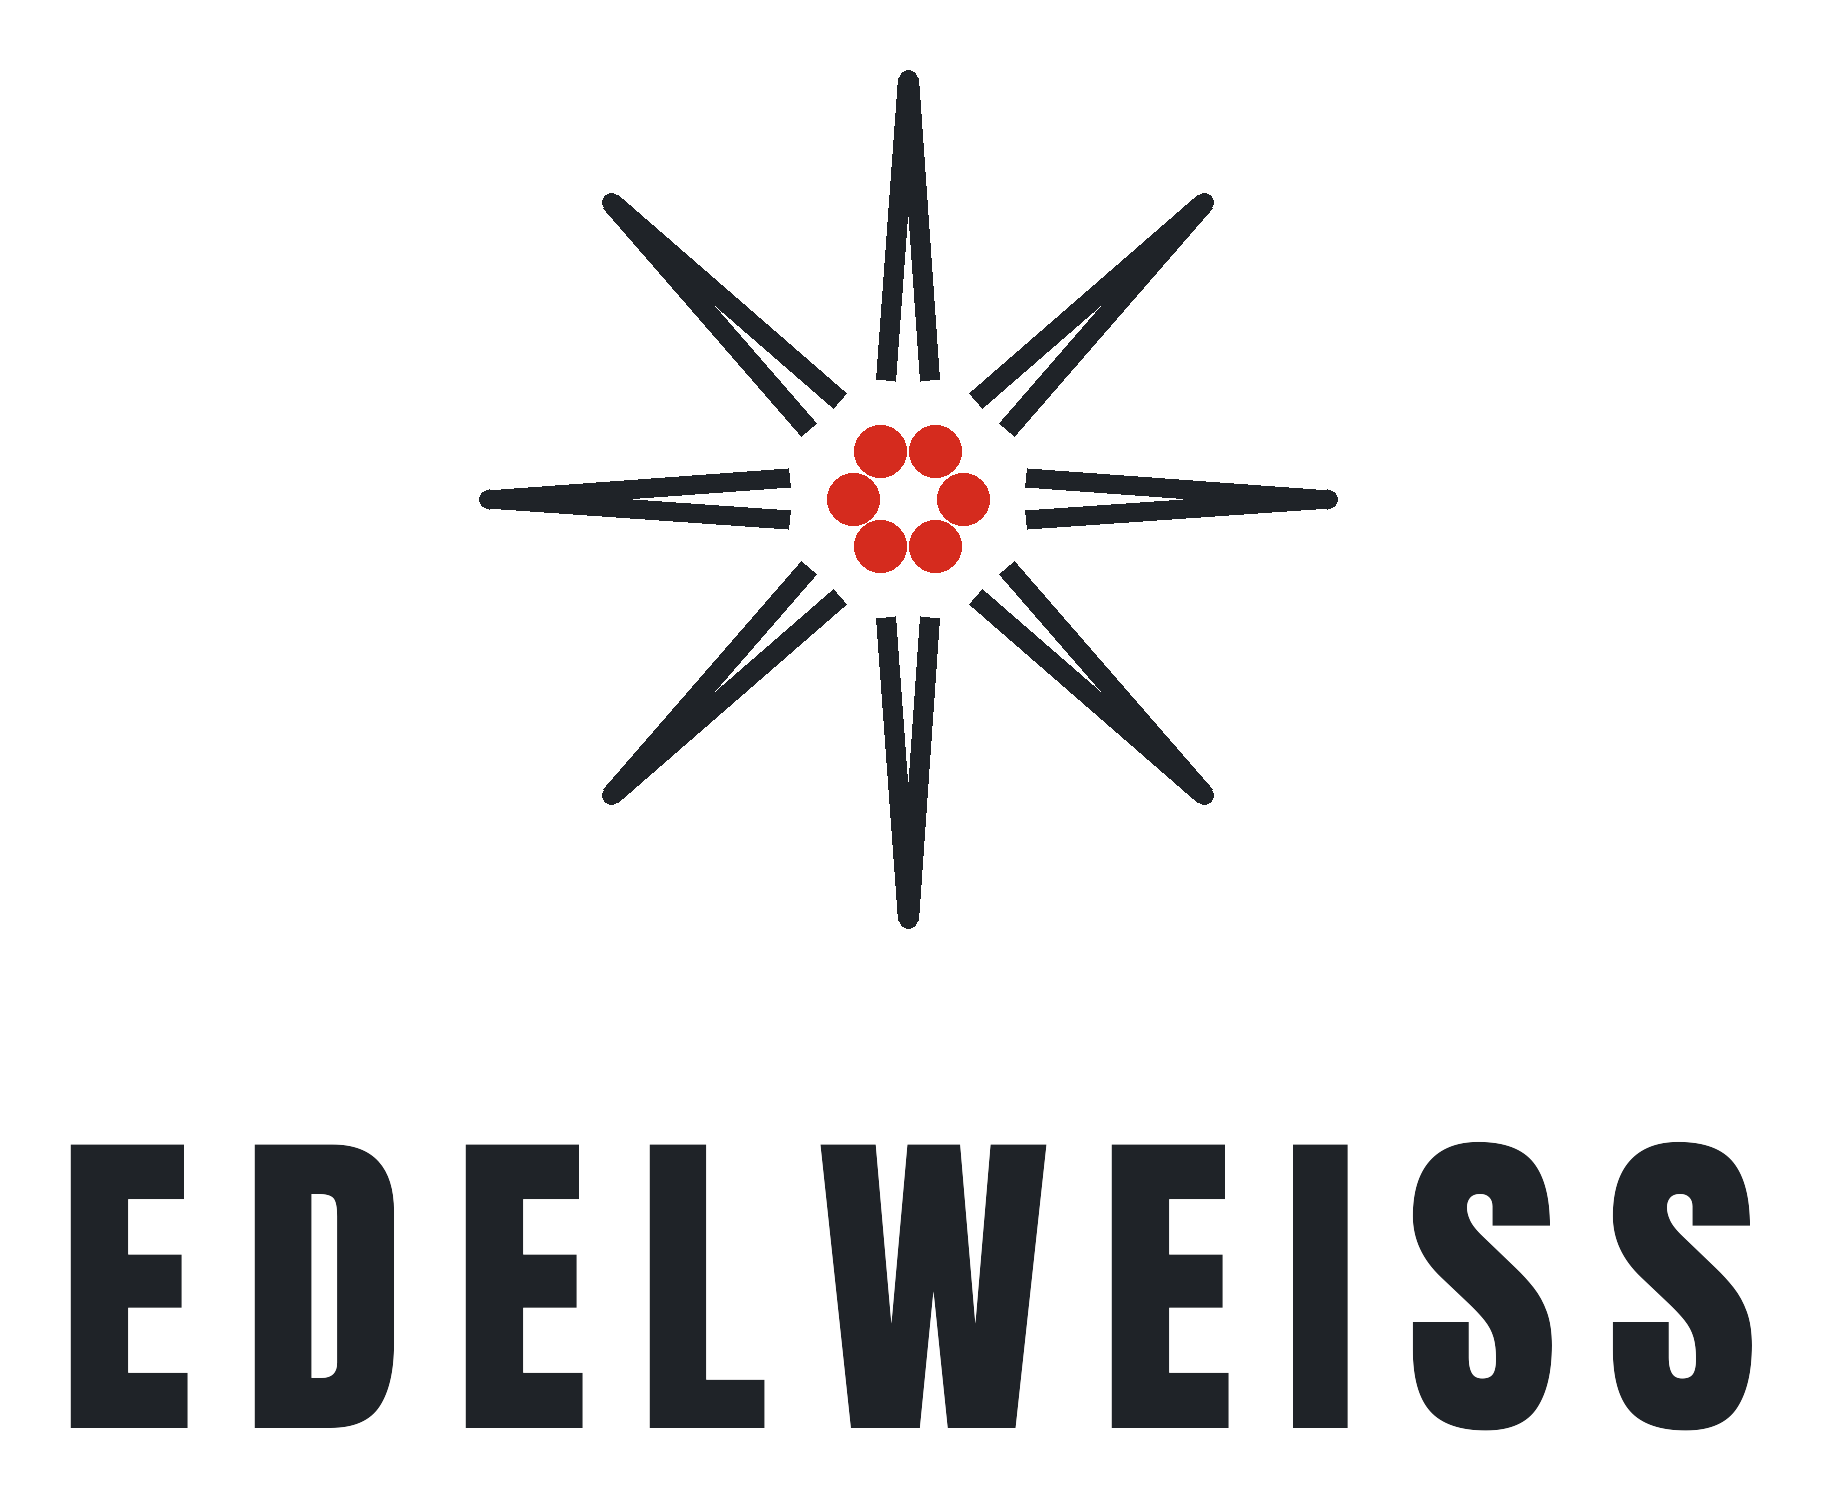
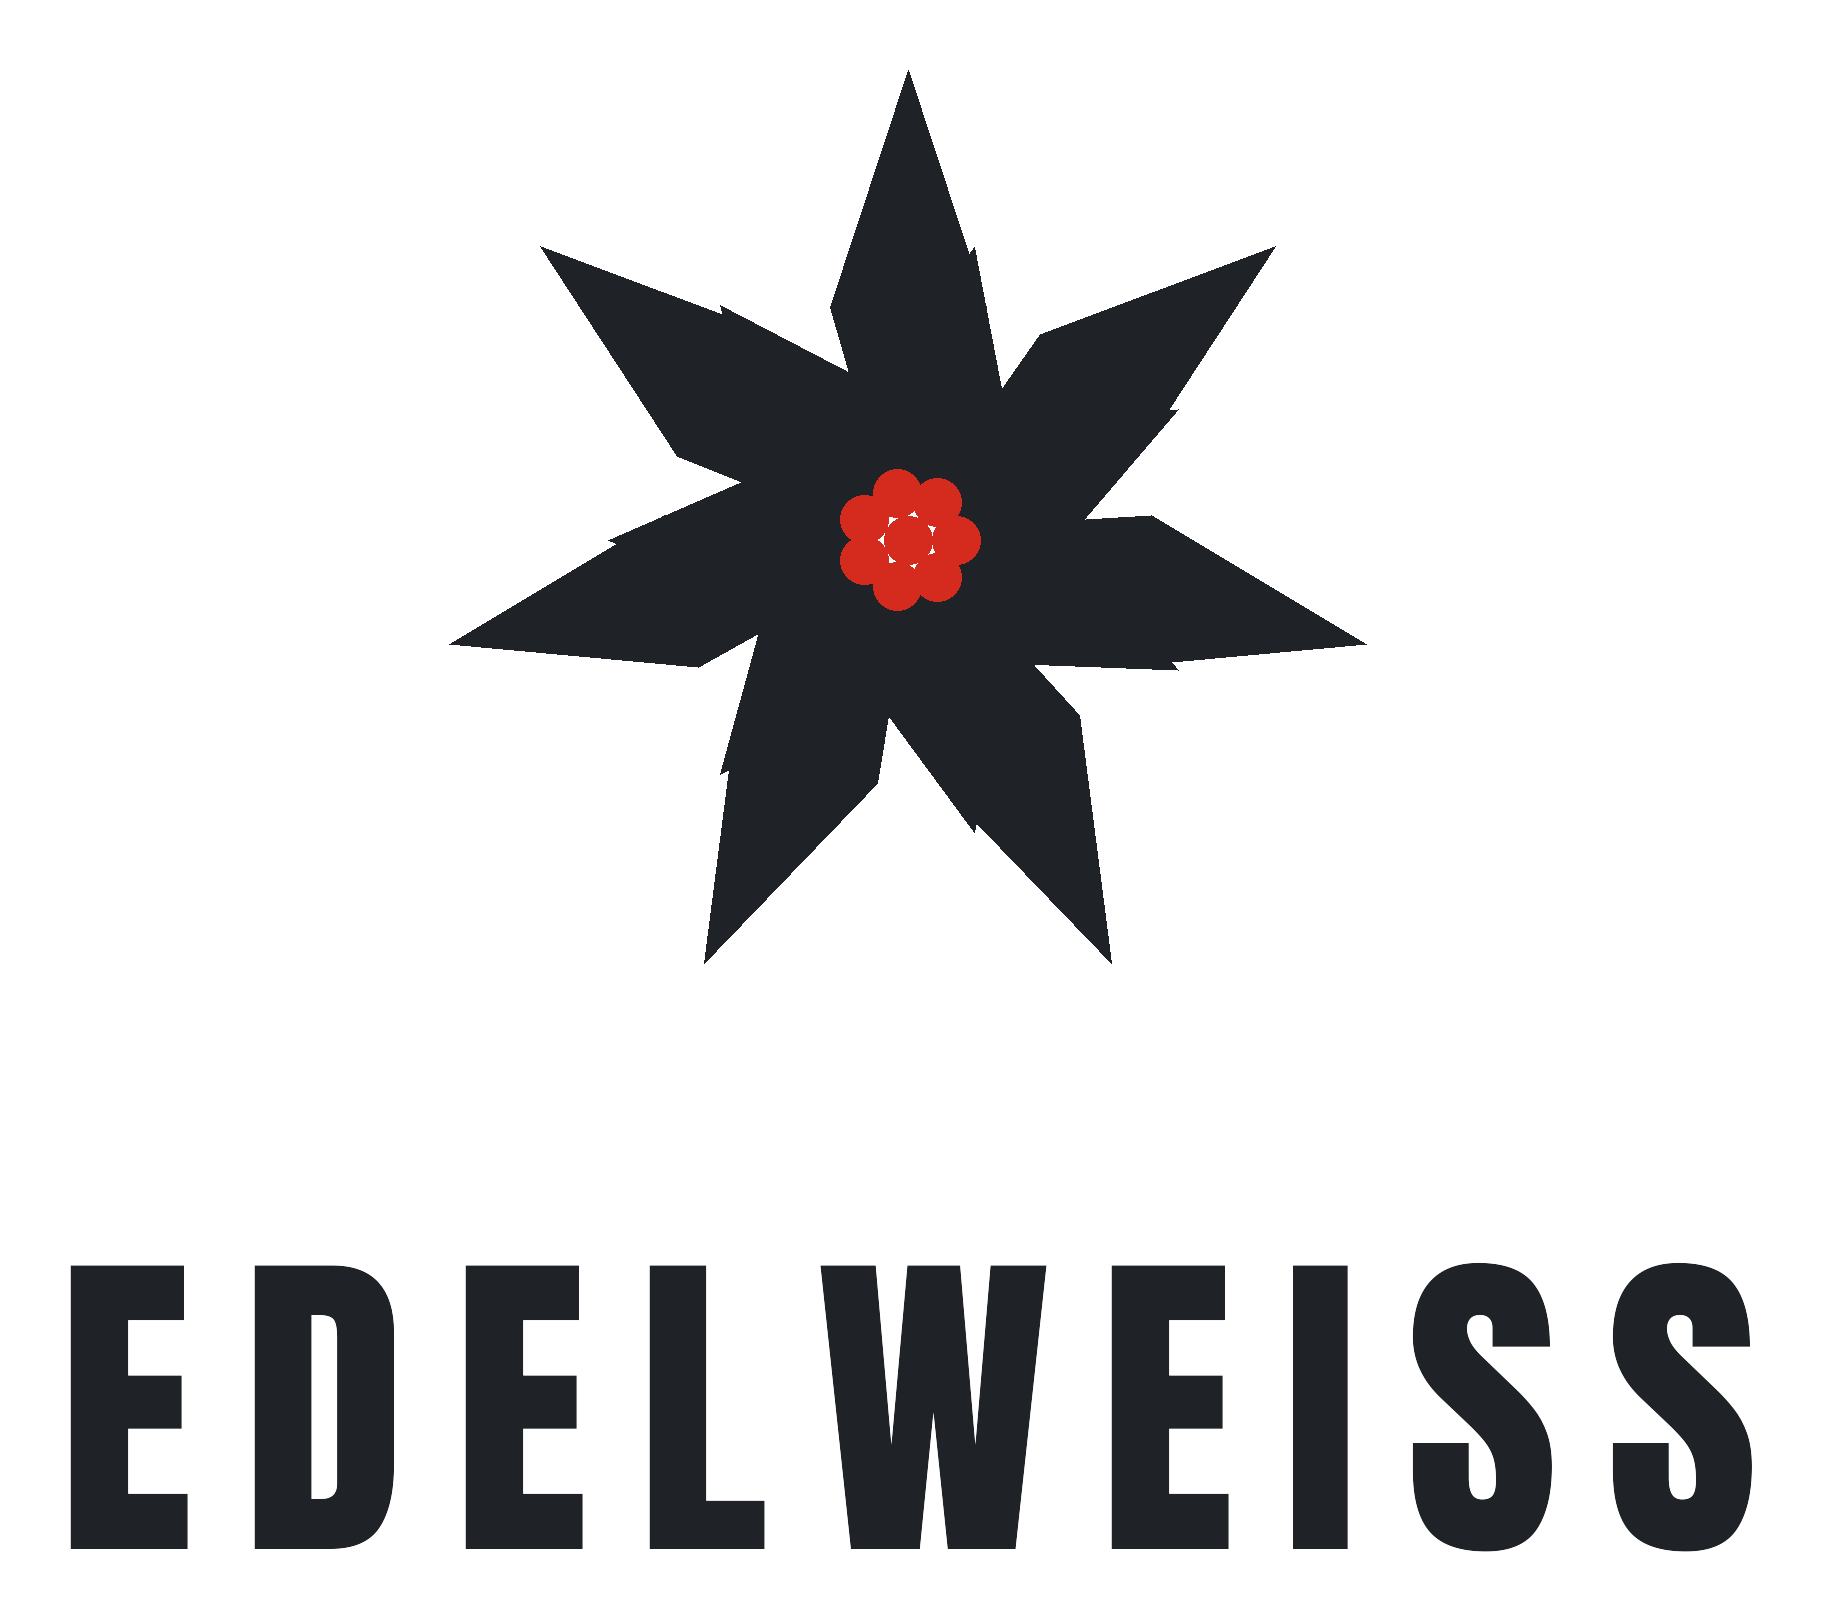
Swiss-Edition: Edelweiss-Design verbessert (botanisch, doppellagige Blütenblätter + Floret-Kern statt Asterisk)

diff --git a/automation/render_swiss_welle2.py b/automation/render_swiss_welle2.py
@@ -70,20 +70,33 @@ d.line([(bx0-30,by0+bh),(bx0+bw+30,by0+bh)],fill=ANTHRACITE,width=LW)
 f=fitfont('SCHWIIZER ALPE',2200,tr=40); centered(d,by0+bh+90,'SCHWIIZER ALPE',f,ANTHRACITE,40)
 save(im,'schwiizer-alpe')
 
-# 3) EDELWEISS (stilisiert, monoline) + EDELWEISS-Schriftzug
+# 3) EDELWEISS (botanisch: doppellagige Lanzett-Blütenblätter + Floret-Kern)
 im=new(); d=ImageDraw.Draw(im)
 import math
-cx,cy=W//2,720; petL=420; petW=120
-for i in range(8):
-    a=math.pi*2*i/8
-    tip=(cx+math.cos(a)*petL, cy+math.sin(a)*petL)
-    s1=(cx+math.cos(a-0.18)*petW, cy+math.sin(a-0.18)*petW)
-    s2=(cx+math.cos(a+0.18)*petW, cy+math.sin(a+0.18)*petW)
-    d.line([s1,tip,s2],fill=ANTHRACITE,width=20,joint='curve')
-# Blütenmitte (kleine Punkte)
-for i in range(6):
-    a=math.pi*2*i/6; d.ellipse([cx+math.cos(a)*55-26,cy+math.sin(a)*55-26,cx+math.cos(a)*55+26,cy+math.sin(a)*55+26],fill=RED)
-f=fitfont('EDELWEISS',1700,tr=48); centered(d,cy+petL+120,'EDELWEISS',f,ANTHRACITE,48)
+cx,cy=W//2,760
+def petal(a,r0,r1,halfw):
+    dx,dy=math.cos(a),math.sin(a); px,py=-math.sin(a),math.cos(a)
+    rmid=r0+(r1-r0)*0.42
+    bl=(cx+dx*r0+px*halfw*0.35, cy+dy*r0+py*halfw*0.35)
+    ml=(cx+dx*rmid+px*halfw,     cy+dy*rmid+py*halfw)
+    tip=(cx+dx*r1,               cy+dy*r1)
+    mr=(cx+dx*rmid-px*halfw,     cy+dy*rmid-py*halfw)
+    br=(cx+dx*r0-px*halfw*0.35,  cy+dy*r0-py*halfw*0.35)
+    return [bl,ml,tip,mr,br]
+# untere (innere) Lage – etwas kürzer, versetzt
+for i in range(7):
+    a=math.pi*2*i/7 + math.pi/7
+    d.polygon(petal(a,55,300,62), fill=ANTHRACITE)
+# obere (äussere) Lage – lang, markant
+for i in range(7):
+    a=math.pi*2*i/7 - math.pi/2
+    d.polygon(petal(a,60,470,78), fill=ANTHRACITE)
+# Floret-Kern: Cluster kleiner Punkte
+for i in range(7):
+    a=math.pi*2*i/7; rr=24
+    d.ellipse([cx+math.cos(a)*48-rr,cy+math.sin(a)*48-rr,cx+math.cos(a)*48+rr,cy+math.sin(a)*48+rr],fill=RED)
+d.ellipse([cx-rr,cy-rr,cx+rr,cy+rr],fill=RED)
+f=fitfont('EDELWEISS',1700,tr=48); centered(d,cy+470+150,'EDELWEISS',f,ANTHRACITE,48)
 save(im,'edelweiss')
 
 print('Fertig → pod/swiss-edition/')
